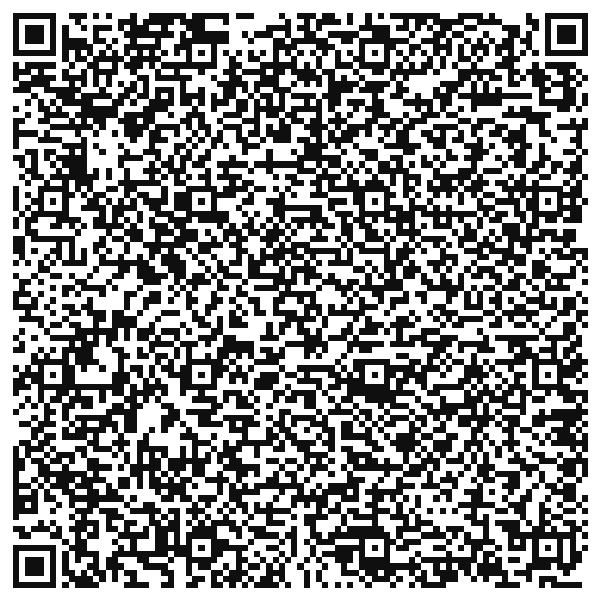
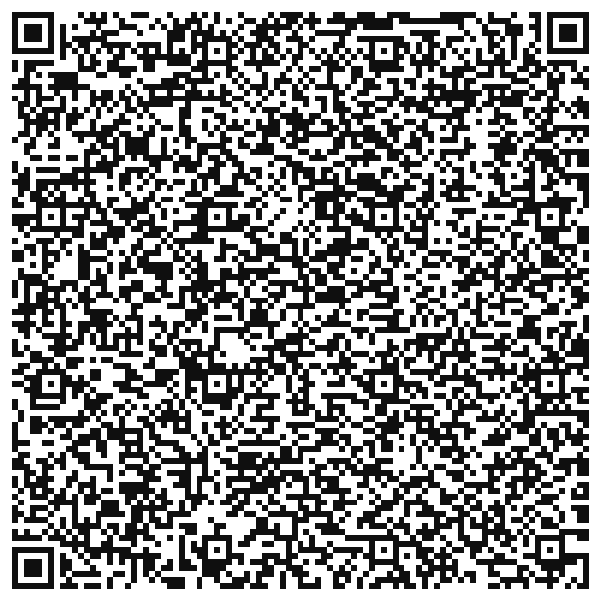
/adley: bump to 2026-06 AppsFlyer link + add /adley-v2 no-phone variant
/adley updates:
- AppsFlyer URL swapped to Spencer's 2026-06 link (3 hrefs +
  JS APP_STORE_URL). Adds af_siteid=adley + af_ad=adley-dashboard-link
  to match the partner-link template Spencer's using for newer
  partners. Campaign code now adley-2026-06.
- adley-qr.png regenerated to encode the new URL.

/adley-v2 (new):
- No phone capture anywhere on the page. Hero + final CTA forms
  swapped out for a single full-width "Download Now" pill that
  links straight to the AppsFlyer URL.
- New section "PixSort is the iPhone app that auto-sorts your
  camera roll into smart albums." inserted above the features
  block as a single-line product clarifier (italic + yellow
  highlighter on "smart albums").
- Modal removed (no phone capture = no waitlist popup needed).
- All phone-capture JS stripped (savePhone, handleSubmit,
  formatPhoneInput, showPhoneError, detectPlatform, input
  listeners, modal show/hide). Page JS is now ~20 lines.
- FAQ Q1 + Android answer rewritten for the no-phone flow.
- Meta og:url points at /adley-v2.

Both /adley and /adley-v2 carry the same AppsFlyer link, so
attribution lands on pid=adley + c=adley-2026-06 either way.

diff --git a/adley-v2/index.html b/adley-v2/index.html
@@ -14,7 +14,7 @@
   <meta property="og:image" content="https://pixsort.app/assets/og-image.png">
   <meta property="og:image:width" content="1200">
   <meta property="og:image:height" content="630">
-  <meta property="og:url" content="https://pixsort.app/adley">
+  <meta property="og:url" content="https://pixsort.app/adley-v2">
 
   <!-- Twitter -->
   <meta name="twitter:card" content="summary_large_image">
@@ -163,6 +163,37 @@
     }
 
     .cta-block { display: flex; flex-direction: column; align-items: stretch; gap: 14px; width: 100%; max-width: 460px; position: relative; z-index: 1; }
+    .cta-download {
+      display: inline-flex; align-items: center; justify-content: center; gap: 10px;
+      background: var(--ink); color: var(--bg);
+      font-family: inherit; font-size: 17px; font-weight: 800;
+      letter-spacing: -0.01em;
+      padding: 18px 28px; border-radius: 999px;
+      text-decoration: none; border: 1.5px solid var(--ink);
+      box-shadow: 4px 4px 0 var(--ink);
+      transition: transform .15s, box-shadow .2s;
+      width: 100%;
+    }
+    .cta-download:hover { transform: translate(-2px, -2px); box-shadow: 6px 6px 0 var(--lime); }
+    .cta-download svg { width: 18px; height: 18px; }
+
+    /* ── One-liner above features ─────────────────────── */
+    .what-is {
+      padding: 56px 24px 24px; text-align: center; max-width: 920px; margin: 0 auto;
+    }
+    .what-is p {
+      font-family: 'DM Serif Display', Georgia, serif;
+      font-size: clamp(22px, 2.4vw, 32px);
+      line-height: 1.3; color: var(--ink); letter-spacing: -0.01em;
+      text-wrap: balance;
+    }
+    .what-is p em {
+      font-style: italic; color: var(--ink); position: relative; display: inline-block;
+    }
+    .what-is p em::after {
+      content: ''; position: absolute; left: -3px; right: -3px;
+      bottom: 0.06em; height: 0.30em; background: var(--lime); z-index: -1;
+    }
     .input-row {
       display: flex; width: 100%;
       background: var(--bg2); border: 1.5px solid var(--ink);
@@ -490,19 +521,15 @@
     <p class="hero-discount-line"><span>100 photos sorted, on us.</span></p>
 
     <div class="cta-block" id="hero-cta">
-      <div class="input-row" id="hero-input-row">
-        <input type="tel" id="hero-phone" placeholder="Your phone number" inputmode="tel" autocomplete="tel" maxlength="14">
-        <button onclick="handleSubmit('hero')">Get 100 Free</button>
-      </div>
-      <div class="success-msg" id="hero-success">
-        You're in. Your 100-photo unlock is locked to your number.
-      </div>
+      <a class="cta-download" href="https://app.appsflyer.com/id6760485464?pid=adley&c=adley-2026-06&af_channel=influencer&af_adset=adley-landing&af_ad=adley-dashboard-link&af_siteid=adley&af_sub1=adley&af_sub2=adley-2026-06&af_sub3=pixsort-app-adley&deep_link_value=collab&deep_link_sub1=adley&deep_link_sub2=adley-2026-06&deep_link_sub3=pixsort-app-adley&af_dp=sortscout%3A%2F%2Fcollab%2Fadley%3Futm_source%3Dadley%26utm_medium%3Dinfluencer%26utm_campaign%3Dadley-2026-06%26click_id%3Dpixsort-app-adley&af_ios_url=https%3A%2F%2Fapps.apple.com%2Fus%2Fapp%2Fpixsort-ai-photo-organizer%2Fid6760485464&af_web_dp=https%3A%2F%2Fpixsort.app%2Fadley%2F&af_click_lookback=30d">
+        <svg viewBox="0 0 384 512" fill="currentColor" aria-hidden="true"><path d="M318.7 268.7c-.2-36.7 16.4-64.4 50-84.8-18.8-26.9-47.2-41.7-84.7-44.6-35.5-2.8-74.3 20.7-88.5 20.7-15 0-49.4-19.7-76.4-19.7C63.3 141.2 4 184.8 4 273.5q0 39.3 14.4 81.2c12.8 36.7 59 126.7 107.2 125.2 25.2-.6 43-17.9 75.8-17.9 31.8 0 48.3 17.9 76.4 17.9 48.6-.7 90.4-82.5 102.6-119.3-65.2-30.7-61.7-90-61.7-91.9zm-56.6-164.2c27.3-32.4 24.8-61.9 24-72.5-24.1 1.4-52 16.4-67.9 34.9-17.5 19.8-27.8 44.3-25.6 71.9 26.1 2 49.9-11.4 69.5-34.3z"/></svg>
+        Download Now
+      </a>
       <div class="microcopy">
         <span>iOS</span>
         <span>100 photos free</span>
-        <span>No spam</span>
+        <span>Adley's link</span>
       </div>
-      <p class="sms-disclosure">By submitting, you agree to receive occasional SMS updates from PixSort. Reply STOP to opt out anytime. Msg &amp; data rates may apply.</p>
     </div>
   </div>
 
@@ -535,6 +562,11 @@
 <!-- ── Statement ─────────────────────────────────────── -->
 <div class="statement">
   <p>Your camera roll is a<br><em>business asset.</em></p>
+</div>
+
+<!-- ── What is PixSort one-liner ────────────────────── -->
+<div class="what-is">
+  <p>PixSort is the iPhone app that auto-sorts your camera roll into <em>smart albums.</em></p>
 </div>
 
 <!-- ── Feature rows ──────────────────────────────────── -->
@@ -599,7 +631,7 @@
       <span>How do I get 100 photos sorted free?</span>
       <div class="faq-icon"><svg width="12" height="12" viewBox="0 0 12 12" fill="none" stroke="currentColor" stroke-width="2"><line x1="6" y1="1" x2="6" y2="11"/><line x1="1" y1="6" x2="11" y2="6"/></svg></div>
     </div>
-    <div class="faq-a">Two routes from this page: tap <strong>Download Now</strong> at the top, or enter your phone number below. Both carry Adley's link into the App Store, and the 100-photo free unlock activates automatically the first time you open the app.</div>
+    <div class="faq-a">Tap <strong>Download Now</strong> anywhere on this page (or scan the QR with your iPhone). Every button carries Adley's link into the App Store, and the 100-photo free unlock activates automatically the first time you open the app.</div>
   </div>
 
   <div class="faq-item">
@@ -639,7 +671,7 @@
       <span>I'm on Android. Can I use this?</span>
       <div class="faq-icon"><svg width="12" height="12" viewBox="0 0 12 12" fill="none" stroke="currentColor" stroke-width="2"><line x1="6" y1="1" x2="6" y2="11"/><line x1="1" y1="6" x2="11" y2="6"/></svg></div>
     </div>
-    <div class="faq-a">PixSort is iOS-only right now. Drop your number and we'll text you the moment the Android version launches, with Adley's 100-photo unlock applied.</div>
+    <div class="faq-a">PixSort is iOS-only right now. The Android version is in the works. Check back here when you're ready to install on an iPhone.</div>
   </div>
 </section>
 
@@ -647,20 +679,16 @@
 <section class="final-cta">
   <h2>Get PixSort.<br><em>On us.</em></h2>
   <p>100 photos sorted free, exclusive to Adley's audience.</p>
-  <div class="cta-block">
-    <div class="input-row" id="final-input-row">
-      <input type="tel" id="final-phone" placeholder="Your phone number" inputmode="tel" autocomplete="tel" maxlength="14">
-      <button onclick="handleSubmit('final')">Get 100 Free</button>
-    </div>
-    <div class="success-msg" id="final-success">
-      You're in. Your 100-photo unlock is locked to your number.
-    </div>
+  <div class="cta-block" style="margin: 0 auto;">
+    <a class="cta-download" href="https://app.appsflyer.com/id6760485464?pid=adley&c=adley-2026-06&af_channel=influencer&af_adset=adley-landing&af_ad=adley-dashboard-link&af_siteid=adley&af_sub1=adley&af_sub2=adley-2026-06&af_sub3=pixsort-app-adley&deep_link_value=collab&deep_link_sub1=adley&deep_link_sub2=adley-2026-06&deep_link_sub3=pixsort-app-adley&af_dp=sortscout%3A%2F%2Fcollab%2Fadley%3Futm_source%3Dadley%26utm_medium%3Dinfluencer%26utm_campaign%3Dadley-2026-06%26click_id%3Dpixsort-app-adley&af_ios_url=https%3A%2F%2Fapps.apple.com%2Fus%2Fapp%2Fpixsort-ai-photo-organizer%2Fid6760485464&af_web_dp=https%3A%2F%2Fpixsort.app%2Fadley%2F&af_click_lookback=30d">
+      <svg viewBox="0 0 384 512" fill="currentColor" aria-hidden="true"><path d="M318.7 268.7c-.2-36.7 16.4-64.4 50-84.8-18.8-26.9-47.2-41.7-84.7-44.6-35.5-2.8-74.3 20.7-88.5 20.7-15 0-49.4-19.7-76.4-19.7C63.3 141.2 4 184.8 4 273.5q0 39.3 14.4 81.2c12.8 36.7 59 126.7 107.2 125.2 25.2-.6 43-17.9 75.8-17.9 31.8 0 48.3 17.9 76.4 17.9 48.6-.7 90.4-82.5 102.6-119.3-65.2-30.7-61.7-90-61.7-91.9zm-56.6-164.2c27.3-32.4 24.8-61.9 24-72.5-24.1 1.4-52 16.4-67.9 34.9-17.5 19.8-27.8 44.3-25.6 71.9 26.1 2 49.9-11.4 69.5-34.3z"/></svg>
+      Download Now
+    </a>
     <div class="microcopy">
       <span>iOS</span>
       <span>100 photos free</span>
-      <span>No spam</span>
+      <span>Adley's link</span>
     </div>
-    <p class="sms-disclosure">By submitting, you agree to receive occasional SMS updates from PixSort. Reply STOP to opt out anytime. Msg &amp; data rates may apply.</p>
   </div>
 </section>
 
@@ -940,114 +968,10 @@ mountPhone('phone-send',   <Phone dw={FEAT_DW} active="home"><Screen5/></Phone>)
 
 <!-- ── Interactions ──────────────────────────────────────── -->
 <script>
-const SCRIPT_URL = 'https://script.google.com/macros/s/AKfycbzc6k607rRZ2PlRKjGO7kjpuzGXLFiDiO7TjnXLmjBhkyZHhGELauQokFzLb2QNTq459A/exec';
 const APP_STORE_URL = 'https://app.appsflyer.com/id6760485464?pid=adley&c=adley-2026-06&af_channel=influencer&af_adset=adley-landing&af_ad=adley-dashboard-link&af_siteid=adley&af_sub1=adley&af_sub2=adley-2026-06&af_sub3=pixsort-app-adley&deep_link_value=collab&deep_link_sub1=adley&deep_link_sub2=adley-2026-06&deep_link_sub3=pixsort-app-adley&af_dp=sortscout%3A%2F%2Fcollab%2Fadley%3Futm_source%3Dadley%26utm_medium%3Dinfluencer%26utm_campaign%3Dadley-2026-06%26click_id%3Dpixsort-app-adley&af_ios_url=https%3A%2F%2Fapps.apple.com%2Fus%2Fapp%2Fpixsort-ai-photo-organizer%2Fid6760485464&af_web_dp=https%3A%2F%2Fpixsort.app%2Fadley%2F&af_click_lookback=30d';
-const APP_STORE_DIRECT_URL = 'https://apps.apple.com/us/app/pixsort-ai-photo-organizer/id6760485464';
 
-function getSubmitMeta() {
-  const params = new URLSearchParams(window.location.search);
-  return {
-    userAgent: navigator.userAgent,
-    page: window.location.pathname,
-    referrer: document.referrer,
-    utm_source: params.get('utm_source') || '',
-    utm_campaign: params.get('utm_campaign') || '',
-    utm_medium: params.get('utm_medium') || ''
-  };
-}
-
-function savePhone(phone, platform) {
-  fetch(SCRIPT_URL, {
-    method: 'POST',
-    mode: 'no-cors',
-    keepalive: true,
-    headers: { 'Content-Type': 'application/json' },
-    body: JSON.stringify({ phone, source: 'adley', platform, ...getSubmitMeta() })
-  }).catch(() => {});
-}
-
-function detectPlatform() {
-  const ua = navigator.userAgent;
-  if (/android/i.test(ua)) return 'android';
-  if (/iphone|ipad|ipod/i.test(ua)) return 'ios';
-  return 'desktop';
-}
-
-function formatPhoneInput(el) {
-  const digits = el.value.replace(/\D/g, '').slice(0, 10);
-  let f = '';
-  if (digits.length > 0) f = '(' + digits.slice(0, 3);
-  if (digits.length >= 4) f += ') ' + digits.slice(3, 6);
-  if (digits.length >= 7) f += '-' + digits.slice(6, 10);
-  el.value = f;
-}
-
-function showPhoneError(prefix, msg) {
-  const row = document.getElementById(prefix + '-input-row');
-  if (!row) return;
-  const parent = row.parentElement;
-  let err = parent.querySelector('.phone-error');
-  if (!err) {
-    err = document.createElement('div');
-    err.className = 'phone-error';
-    parent.insertBefore(err, row.nextSibling);
-  }
-  err.textContent = msg;
-  err.style.display = 'block';
-  setTimeout(() => { err.style.display = 'none'; }, 4000);
-}
-
-function handleSubmit(prefix) {
-  const input   = document.getElementById(prefix + '-phone');
-  const row     = document.getElementById(prefix + '-input-row');
-  const success = document.getElementById(prefix + '-success');
-  const btn     = row ? row.querySelector('button') : null;
-  const val     = (input ? input.value : '').trim();
-  if (!val) {
-    if (input) { input.style.boxShadow = '0 0 0 2px #D4704A inset'; input.focus(); }
-    setTimeout(() => { if(input) input.style.boxShadow = ''; }, 1500);
-    return;
-  }
-  const digits = val.replace(/\D/g, '');
-  if (digits.length !== 10) {
-    if (input) { input.style.boxShadow = '0 0 0 2px #D14848 inset'; input.focus(); }
-    showPhoneError(prefix, 'Please enter a valid 10-digit phone number.');
-    setTimeout(() => { if (input) input.style.boxShadow = ''; }, 1500);
-    return;
-  }
-  const platform = detectPlatform();
-  if (btn) {
-    btn.textContent = platform === 'android' ? 'Saving…' : 'Opening App Store…';
-    btn.disabled = true;
-  }
-  savePhone(digits, platform);
-  if (platform === 'ios') {
-    window.location.href = APP_STORE_URL;
-  } else if (platform === 'desktop') {
-    window.location.href = APP_STORE_DIRECT_URL;
-  } else {
-    if (row)     row.style.display = 'none';
-    if (success) success.style.display = 'block';
-  }
-}
-
-document.addEventListener('input', e => {
-  if (e.target.matches && e.target.matches('input[type="tel"]')) {
-    formatPhoneInput(e.target);
-    e.target.style.boxShadow = '';
-    const err = e.target.closest('.cta-block, .modal-card')?.querySelector('.phone-error');
-    if (err) err.style.display = 'none';
-  }
-});
-
-document.querySelectorAll('input[type="tel"]').forEach(el => {
-  el.addEventListener('keydown', e => {
-    if (e.key === 'Enter') handleSubmit(el.id.replace('-phone', ''));
-  });
-});
-
-// Make every phone mockup tappable → App Store
-['#hero-phone-wrap', '#phone-search', '#phone-sort', '#phone-send', '#phone-post'].forEach(sel => {
+// Tap any phone mockup → App Store
+['#phone-search', '#phone-sort', '#phone-send'].forEach(sel => {
   const el = document.querySelector(sel);
   if (el) {
     el.style.cursor = 'pointer';
@@ -1061,90 +985,6 @@ function toggleFaq(el) {
   document.querySelectorAll('.faq-item.open').forEach(i => i.classList.remove('open'));
   if (!wasOpen) item.classList.add('open');
 }
-</script>
-
-<!-- ── Android/Desktop Waitlist Modal ───────────────────── -->
-<style>
-  .modal-overlay {
-    position: fixed; inset: 0;
-    background: rgba(0,0,0,0.85);
-    display: flex; align-items: center; justify-content: center;
-    z-index: 1000; padding: 20px;
-  }
-  .modal-card {
-    background: #FFFFFF; border: 1px solid #E5E5E5;
-    border-radius: 16px; padding: 36px 28px 28px;
-    max-width: 440px; width: 100%; position: relative;
-    box-shadow: 0 30px 80px rgba(0,0,0,0.5);
-  }
-  .modal-close {
-    position: absolute; top: 8px; right: 14px;
-    background: none; border: none; color: #888;
-    font-size: 28px; cursor: pointer; line-height: 1; padding: 4px 8px;
-  }
-  .modal-close:hover { color: #1A1A1A; }
-  .modal-title {
-    font-size: 24px; font-weight: 700; color: #1A1A1A;
-    margin: 0 0 10px;
-  }
-  .modal-subtitle {
-    color: #555; margin: 0 0 20px; line-height: 1.45; font-size: 15px;
-  }
-  #modal-input-row { background-color: rgb(240,237,237); }
-  #modal-success {
-    color: #1A6B3D; background: rgba(40, 167, 69, 0.1);
-    border: 1px solid rgba(40, 167, 69, 0.3);
-  }
-  .phone-error {
-    color: #D14848; margin-top: 10px; font-size: 14px;
-    text-align: center; font-weight: 500;
-  }
-</style>
-
-<div class="modal-overlay" id="waitlist-modal" style="display:none;" onclick="if(event.target===this)hideWaitlistModal()">
-  <div class="modal-card">
-    <button class="modal-close" onclick="hideWaitlistModal()" aria-label="Close">&times;</button>
-    <h3 class="modal-title">Claim your 100 photos free</h3>
-    <p class="modal-subtitle" id="modal-subtitle">Drop your number to lock in your 100-photo unlock.</p>
-    <div class="input-row" id="modal-input-row">
-      <input type="tel" id="modal-phone" placeholder="Your phone number" inputmode="tel" autocomplete="tel">
-      <button onclick="handleSubmit('modal')">Notify Me</button>
-    </div>
-    <div class="success-msg" id="modal-success" style="display:none;">
-      You're in. Your 100-photo unlock is locked to your number.
-    </div>
-    <p class="sms-disclosure">By submitting, you agree to receive occasional SMS updates from PixSort. Reply STOP to opt out. Msg &amp; data rates may apply.</p>
-  </div>
-</div>
-
-<script>
-document.querySelectorAll('.nav-cta, .appstore-pill').forEach(link => {
-  link.addEventListener('click', e => {
-    const platform = detectPlatform();
-    if (platform === 'ios') return;
-    e.preventDefault();
-    showWaitlistModal(platform);
-  });
-});
-function showWaitlistModal(platform) {
-  const sub = document.getElementById('modal-subtitle');
-  if (sub) {
-    sub.textContent = platform === 'android'
-      ? "Drop your number to lock in your 100-photo unlock. We'll let you know when PixSort lands on Android."
-      : "Drop your number to lock in your 100-photo unlock. Install on your iPhone to redeem.";
-  }
-  document.getElementById('waitlist-modal').style.display = 'flex';
-  setTimeout(() => document.getElementById('modal-phone')?.focus(), 50);
-}
-function hideWaitlistModal() {
-  document.getElementById('waitlist-modal').style.display = 'none';
-}
-document.getElementById('modal-phone')?.addEventListener('keydown', e => {
-  if (e.key === 'Enter') handleSubmit('modal');
-});
-document.addEventListener('keydown', e => {
-  if (e.key === 'Escape') hideWaitlistModal();
-});
 </script>
 
 </body>
